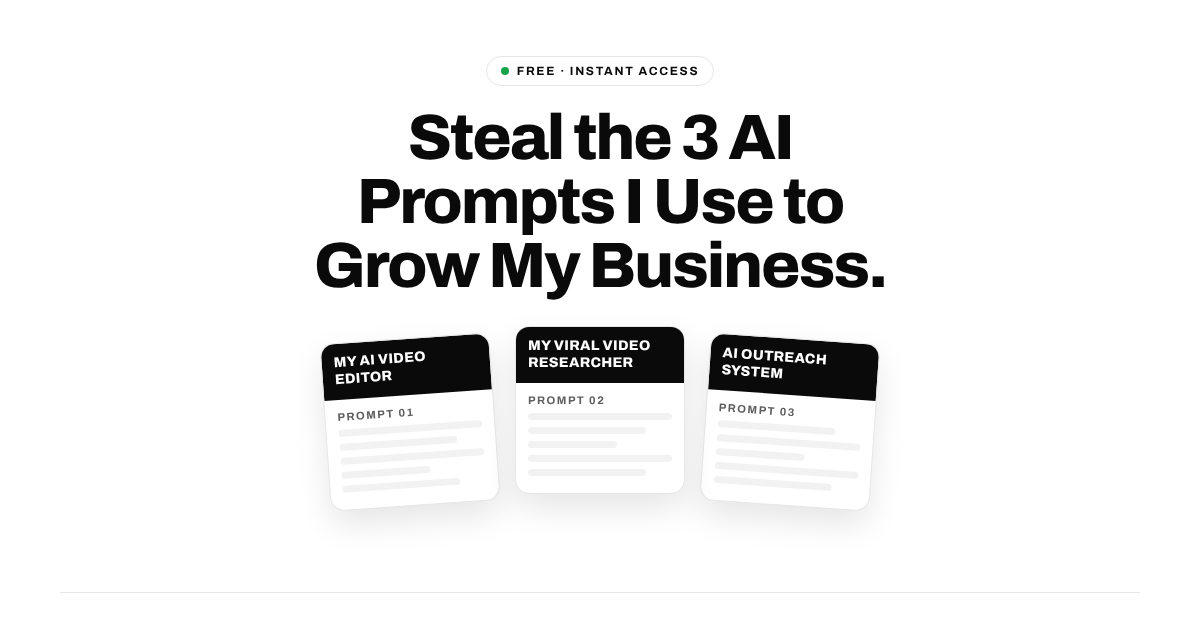
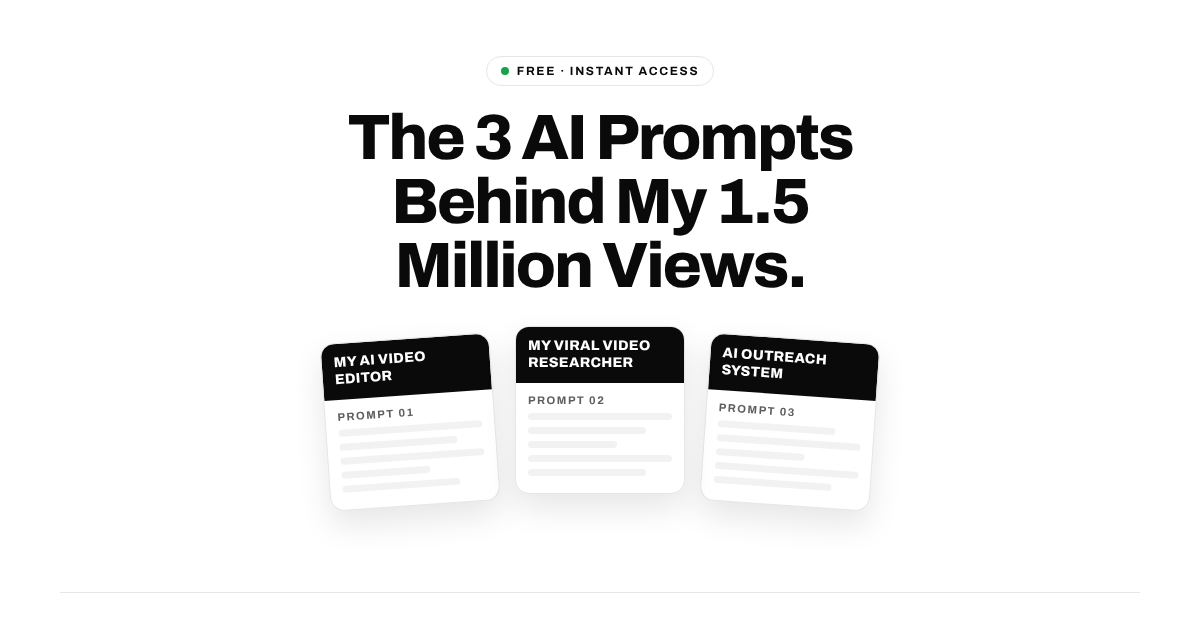
Studio prompts page: headline "The 3 AI Prompts Behind My 1.5 Million Views." (#11)
* Add Vo Creative Studio waitlist page at /studio

Three-screen waitlist for the new founders' school and creative studio in
downtown Detroit:

- Hero and offer share one continuous night photo of the Book Tower that
  pans down the building as you scroll, then turns into a line drawing
  and floods blueprint blue.
- Waitlist form (name, email, phone, unticked SMS/email marketing opt-in
  with consent wording) posts to Netlify Forms as "studio-waitlist", with
  inline validation, retry on failure and an in-place success state.
- Blueprint sheet: a to-scale concept floor plan of the 2,000 sq ft
  warehouse that draws itself in, an interactive room schedule, a line
  drawn Detroit skyline and an architectural title block.

Claude-Session: https://claude.ai/code/session_0139rx3irPRUrB46RXVz9Dme

* Studio waitlist: privacy policy, SMS terms and Discord invite

- New /studio/privacy/ page: privacy policy plus SMS program terms
  (frequency, rates, STOP/HELP, carrier and no-sharing language) for
  VO Management Consulting LLC, contact nathan@vocreativeco.com.
- Consent checkbox now links to the SMS terms; form and footer link
  to the policy.
- Success screen shows a "Join the founders Discord" button with the
  community invite link.

Claude-Session: https://claude.ai/code/session_0139rx3irPRUrB46RXVz9Dme

* Studio waitlist: swap in licensed Higgsfield night photo

Replace the Book Tower photo (no usage rights) with the owner's
[…]

Changed region(s): [[0.2467, 0.181, 0.74, 0.4825]]

diff --git a/studio/index.html b/studio/index.html
@@ -3,12 +3,12 @@
 <head>
 <meta charset="utf-8">
 <meta name="viewport" content="width=device-width, initial-scale=1, viewport-fit=cover">
-<title>Steal My 3 AI Prompts | Vo Creative Studio</title>
-<meta name="description" content="Get the 3 AI prompts I use to grow my business: My AI Video Editor, My Viral Video Researcher and my AI Outreach System. Free, straight to your inbox.">
+<title>The 3 AI Prompts Behind My 1.5 Million Views | Vo Creative Studio</title>
+<meta name="description" content="The 3 AI prompts behind my 1.5 million views: My AI Video Editor, My Viral Video Researcher and my AI Outreach System. Free, straight to your inbox.">
 <meta name="theme-color" content="#FFFFFF">
 <meta property="og:type" content="website">
 <meta property="og:site_name" content="Vo Creative Studio">
-<meta property="og:title" content="Steal the 3 AI Prompts I Use to Grow My Business">
+<meta property="og:title" content="The 3 AI Prompts Behind My 1.5 Million Views">
 <meta property="og:description" content="My AI Video Editor, My Viral Video Researcher and my AI Outreach System. Free, straight to your inbox.">
 <meta property="og:image" content="https://vocreativeco.com/studio/img/og-prompts.png">
 <meta property="og:url" content="https://vocreativeco.com/studio/">
@@ -327,7 +327,7 @@
 <main>
   <div class="intro">
     <p class="pill">Free &middot; Instant access</p>
-    <h1>Steal the 3 AI Prompts I Use to Grow My Business.</h1>
+    <h1>The 3 AI Prompts Behind My 1.5 Million Views.</h1>
 
     <div class="cards" aria-hidden="true">
       <div class="card c1"><p class="title">My AI Video Editor</p><span class="num">Prompt 01</span><i></i><i class="m"></i><i></i><i class="s"></i><i class="m"></i></div>
